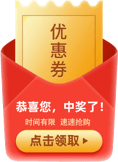
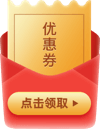
[UI]: 优化

diff --git a/app/pages/index/coupon-dialog/coupon-dialog.scss b/app/pages/index/coupon-dialog/coupon-dialog.scss
@@ -13,10 +13,11 @@ view {
   display: flex;
   flex-direction: column;
   align-items: center;
-  justify-content: center;
+  padding-top: 300rpx;
 }
 
 .coupon-dialog-body {
+  
   width: 632rpx;
   height: 680rpx;
   background: #FA4747;
@@ -151,8 +152,8 @@ view {
 }
 
 .coupon-dialog-close {
-  width: 88rpx;
-  height: 88rpx;
-  margin-top: 80rpx;
+  width: 72rpx;
+  height: 72rpx;
+  margin-top: 48rpx;
 }
 

diff --git a/app/components/coupon-item/coupon-item.scss b/app/components/coupon-item/coupon-item.scss
@@ -24,7 +24,8 @@ view {
         width: 8rpx;
         height: 100%;
         background: #F59725;
-        border-radius: 10rpx 0 0 10rpx;
+        // border-radius: 10rpx 0 0 10rpx;
+        border-top-left-radius: 10rpx;
       }
       .coupon-denomination {
         color: #F59725;

diff --git a/app/pages/coupon-return/coupon-return.scss b/app/pages/coupon-return/coupon-return.scss
@@ -50,13 +50,6 @@ page {
         color: #CDCDCD;;
         font-weight: 400;
       }
-      .num {
-        font-size: 24rpx;
-        color: #151515;
-        position: absolute;
-        bottom: 18rpx;
-        right: 36rpx;
-      }
     }
 
   }

diff --git a/app/pages/index/index.js b/app/pages/index/index.js
@@ -384,7 +384,7 @@ Page({
       let w = e.detail.scrollWidth / this.factor;
       let tagsListX = l * (30 / (w - 700)); //30：滚动条总宽度
       this.setData({ tagsListX });
-    }, 200);
+    });
   },
 
   //点击tags
